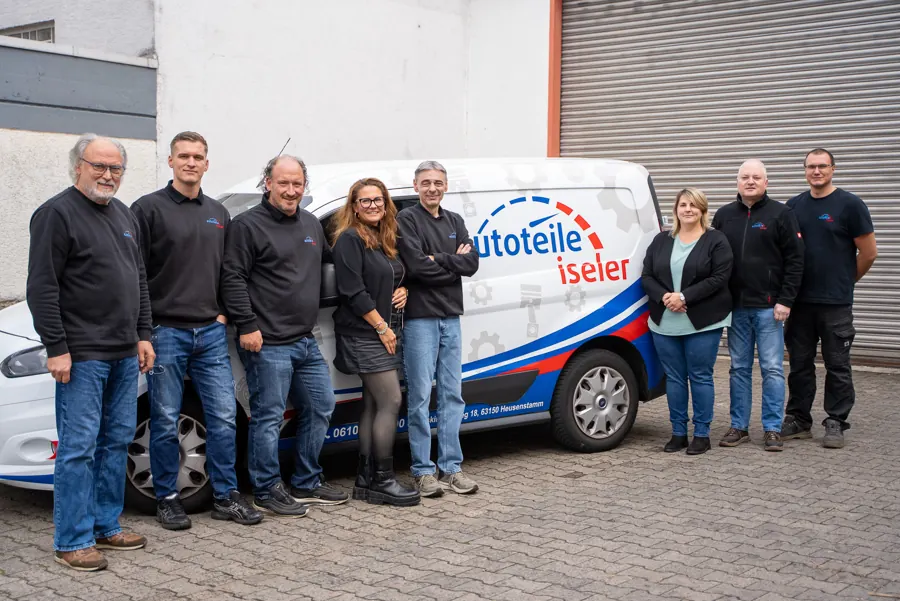
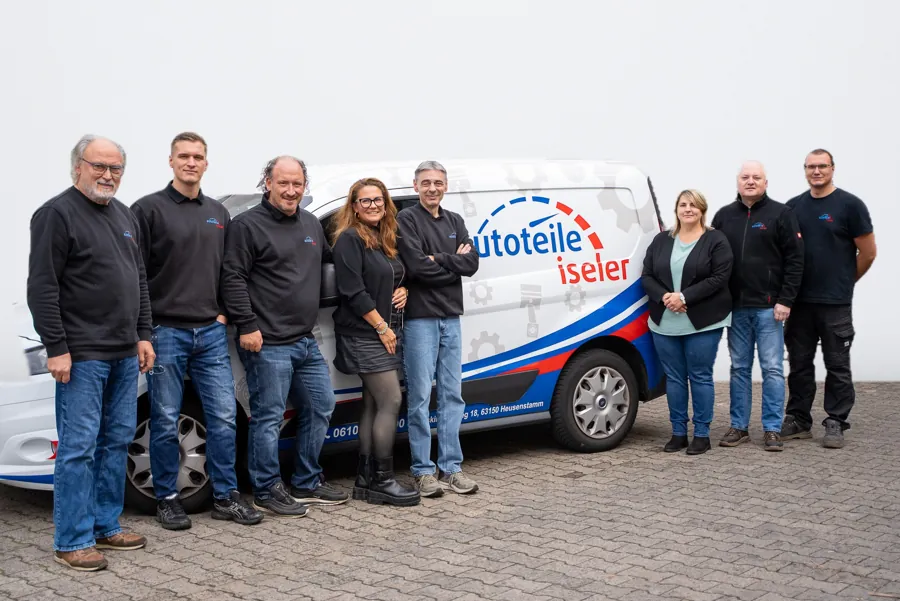
feat: Gruppenfoto mit sauberem Hintergrund, Platzhalter-Porträts für alle

diff --git a/index.html b/index.html
@@ -119,16 +119,16 @@ if(document.documentElement.dataset.theme==='light')document.querySelector('meta
 <section class="team" id="team">
   <h2 class="section-title">Unser Team</h2>
   <p class="team-lede">Von der Beratung über das Lager bis zur Buchhaltung: Bei uns kennen Sie die Menschen, die sich um Ihre Teile kümmern.</p>
-  <figure class="team-group"><img src="assets/img/team-gruppe.webp" srcset="assets/img/team-gruppe-900.webp 900w, assets/img/team-gruppe.webp 2048w" sizes="(max-width:1280px) 100vw, 1200px" alt="Das Team von Autoteile Iseler vor dem Lieferwagen" width="2048" height="1368" loading="lazy"></figure>
+  <figure class="team-group"><img src="assets/img/team-gruppe.webp?v=2" srcset="assets/img/team-gruppe-900.webp?v=2 900w, assets/img/team-gruppe.webp 2048w" sizes="(max-width:1280px) 100vw, 1200px" alt="Das Team von Autoteile Iseler vor dem Lieferwagen" width="2048" height="1368" loading="lazy"></figure>
   <ul class="tags">
-    <li class="tag" style="--tilt:-2deg"><div class="tag-photo" aria-hidden="true"><span>MI</span><svg aria-hidden="true" focusable="false" xmlns="http://www.w3.org/2000/svg" viewBox="0 0 256 256" fill="currentColor"><path d="M208,56H180.28L166.65,35.56A8,8,0,0,0,160,32H96a8,8,0,0,0-6.65,3.56L75.71,56H48A24,24,0,0,0,24,80V192a24,24,0,0,0,24,24H208a24,24,0,0,0,24-24V80A24,24,0,0,0,208,56Zm8,136a8,8,0,0,1-8,8H48a8,8,0,0,1-8-8V80a8,8,0,0,1,8-8H80a8,8,0,0,0,6.66-3.56L100.28,48h55.43l13.63,20.44A8,8,0,0,0,176,72h32a8,8,0,0,1,8,8ZM128,88a44,44,0,1,0,44,44A44.05,44.05,0,0,0,128,88Zm0,72a28,28,0,1,1,28-28A28,28,0,0,1,128,160Z"/></svg></div><h3>Michael Iseler</h3><p>Geschäftsführung</p></li>
-    <li class="tag" style="--tilt:1.5deg"><div class="tag-photo" aria-hidden="true"><span>AI</span><svg aria-hidden="true" focusable="false" xmlns="http://www.w3.org/2000/svg" viewBox="0 0 256 256" fill="currentColor"><path d="M208,56H180.28L166.65,35.56A8,8,0,0,0,160,32H96a8,8,0,0,0-6.65,3.56L75.71,56H48A24,24,0,0,0,24,80V192a24,24,0,0,0,24,24H208a24,24,0,0,0,24-24V80A24,24,0,0,0,208,56Zm8,136a8,8,0,0,1-8,8H48a8,8,0,0,1-8-8V80a8,8,0,0,1,8-8H80a8,8,0,0,0,6.66-3.56L100.28,48h55.43l13.63,20.44A8,8,0,0,0,176,72h32a8,8,0,0,1,8,8ZM128,88a44,44,0,1,0,44,44A44.05,44.05,0,0,0,128,88Zm0,72a28,28,0,1,1,28-28A28,28,0,0,1,128,160Z"/></svg></div><h3>Andre Iseler</h3><p>Geschäftsführung</p></li>
+    <li class="tag" style="--tilt:-2deg"><div class="tag-photo has-img"><img src="assets/img/team-michael.webp" alt="Michael Iseler" width="640" height="800" loading="lazy"></div><h3>Michael Iseler</h3><p>Geschäftsführung</p></li>
+    <li class="tag" style="--tilt:1.5deg"><div class="tag-photo has-img"><img src="assets/img/team-andre.webp" alt="Andre Iseler" width="640" height="800" loading="lazy"></div><h3>Andre Iseler</h3><p>Geschäftsführung</p></li>
     <li class="tag" style="--tilt:-1.5deg"><div class="tag-photo has-img"><img src="assets/img/team-leon.webp" alt="Leon Iseler" width="640" height="800" loading="lazy"></div><h3>Leon Iseler</h3><p>Stellv. Geschäftsführung</p></li>
-    <li class="tag" style="--tilt:1deg"><div class="tag-photo" aria-hidden="true"><span>SI</span><svg aria-hidden="true" focusable="false" xmlns="http://www.w3.org/2000/svg" viewBox="0 0 256 256" fill="currentColor"><path d="M208,56H180.28L166.65,35.56A8,8,0,0,0,160,32H96a8,8,0,0,0-6.65,3.56L75.71,56H48A24,24,0,0,0,24,80V192a24,24,0,0,0,24,24H208a24,24,0,0,0,24-24V80A24,24,0,0,0,208,56Zm8,136a8,8,0,0,1-8,8H48a8,8,0,0,1-8-8V80a8,8,0,0,1,8-8H80a8,8,0,0,0,6.66-3.56L100.28,48h55.43l13.63,20.44A8,8,0,0,0,176,72h32a8,8,0,0,1,8,8ZM128,88a44,44,0,1,0,44,44A44.05,44.05,0,0,0,128,88Zm0,72a28,28,0,1,1,28-28A28,28,0,0,1,128,160Z"/></svg></div><h3>Sandra Iseler</h3><p>Buchhaltung</p></li>
-    <li class="tag" style="--tilt:-1deg"><div class="tag-photo" aria-hidden="true"><span>MS</span><svg aria-hidden="true" focusable="false" xmlns="http://www.w3.org/2000/svg" viewBox="0 0 256 256" fill="currentColor"><path d="M208,56H180.28L166.65,35.56A8,8,0,0,0,160,32H96a8,8,0,0,0-6.65,3.56L75.71,56H48A24,24,0,0,0,24,80V192a24,24,0,0,0,24,24H208a24,24,0,0,0,24-24V80A24,24,0,0,0,208,56Zm8,136a8,8,0,0,1-8,8H48a8,8,0,0,1-8-8V80a8,8,0,0,1,8-8H80a8,8,0,0,0,6.66-3.56L100.28,48h55.43l13.63,20.44A8,8,0,0,0,176,72h32a8,8,0,0,1,8,8ZM128,88a44,44,0,1,0,44,44A44.05,44.05,0,0,0,128,88Zm0,72a28,28,0,1,1,28-28A28,28,0,0,1,128,160Z"/></svg></div><h3>Melanie Seidewitz</h3><p>Buchhaltung</p></li>
-    <li class="tag" style="--tilt:2deg"><div class="tag-photo" aria-hidden="true"><span>CM</span><svg aria-hidden="true" focusable="false" xmlns="http://www.w3.org/2000/svg" viewBox="0 0 256 256" fill="currentColor"><path d="M208,56H180.28L166.65,35.56A8,8,0,0,0,160,32H96a8,8,0,0,0-6.65,3.56L75.71,56H48A24,24,0,0,0,24,80V192a24,24,0,0,0,24,24H208a24,24,0,0,0,24-24V80A24,24,0,0,0,208,56Zm8,136a8,8,0,0,1-8,8H48a8,8,0,0,1-8-8V80a8,8,0,0,1,8-8H80a8,8,0,0,0,6.66-3.56L100.28,48h55.43l13.63,20.44A8,8,0,0,0,176,72h32a8,8,0,0,1,8,8ZM128,88a44,44,0,1,0,44,44A44.05,44.05,0,0,0,128,88Zm0,72a28,28,0,1,1,28-28A28,28,0,0,1,128,160Z"/></svg></div><h3>Claus Mühl</h3><p>Verkaufsberatung</p></li>
-    <li class="tag" style="--tilt:-1.5deg"><div class="tag-photo" aria-hidden="true"><span>FS</span><svg aria-hidden="true" focusable="false" xmlns="http://www.w3.org/2000/svg" viewBox="0 0 256 256" fill="currentColor"><path d="M208,56H180.28L166.65,35.56A8,8,0,0,0,160,32H96a8,8,0,0,0-6.65,3.56L75.71,56H48A24,24,0,0,0,24,80V192a24,24,0,0,0,24,24H208a24,24,0,0,0,24-24V80A24,24,0,0,0,208,56Zm8,136a8,8,0,0,1-8,8H48a8,8,0,0,1-8-8V80a8,8,0,0,1,8-8H80a8,8,0,0,0,6.66-3.56L100.28,48h55.43l13.63,20.44A8,8,0,0,0,176,72h32a8,8,0,0,1,8,8ZM128,88a44,44,0,1,0,44,44A44.05,44.05,0,0,0,128,88Zm0,72a28,28,0,1,1,28-28A28,28,0,0,1,128,160Z"/></svg></div><h3>Florian Schilling</h3><p>Lager und Logistik</p></li>
-    <li class="tag" style="--tilt:1.5deg"><div class="tag-photo" aria-hidden="true"><span>UK</span><svg aria-hidden="true" focusable="false" xmlns="http://www.w3.org/2000/svg" viewBox="0 0 256 256" fill="currentColor"><path d="M208,56H180.28L166.65,35.56A8,8,0,0,0,160,32H96a8,8,0,0,0-6.65,3.56L75.71,56H48A24,24,0,0,0,24,80V192a24,24,0,0,0,24,24H208a24,24,0,0,0,24-24V80A24,24,0,0,0,208,56Zm8,136a8,8,0,0,1-8,8H48a8,8,0,0,1-8-8V80a8,8,0,0,1,8-8H80a8,8,0,0,0,6.66-3.56L100.28,48h55.43l13.63,20.44A8,8,0,0,0,176,72h32a8,8,0,0,1,8,8ZM128,88a44,44,0,1,0,44,44A44.05,44.05,0,0,0,128,88Zm0,72a28,28,0,1,1,28-28A28,28,0,0,1,128,160Z"/></svg></div><h3>Uwe Kaiser</h3><p>Lager und Logistik</p></li>
+    <li class="tag" style="--tilt:1deg"><div class="tag-photo has-img"><img src="assets/img/team-sandra.webp" alt="Sandra Iseler" width="640" height="800" loading="lazy"></div><h3>Sandra Iseler</h3><p>Buchhaltung</p></li>
+    <li class="tag" style="--tilt:-1deg"><div class="tag-photo has-img"><img src="assets/img/team-melanie.webp" alt="Melanie Seidewitz" width="640" height="800" loading="lazy"></div><h3>Melanie Seidewitz</h3><p>Buchhaltung</p></li>
+    <li class="tag" style="--tilt:2deg"><div class="tag-photo has-img"><img src="assets/img/team-claus.webp" alt="Claus Mühl" width="640" height="800" loading="lazy"></div><h3>Claus Mühl</h3><p>Verkaufsberatung</p></li>
+    <li class="tag" style="--tilt:-1.5deg"><div class="tag-photo has-img"><img src="assets/img/team-florian.webp" alt="Florian Schilling" width="640" height="800" loading="lazy"></div><h3>Florian Schilling</h3><p>Lager und Logistik</p></li>
+    <li class="tag" style="--tilt:1.5deg"><div class="tag-photo has-img"><img src="assets/img/team-uwe.webp" alt="Uwe Kaiser" width="640" height="800" loading="lazy"></div><h3>Uwe Kaiser</h3><p>Lager und Logistik</p></li>
   </ul>
 </section>
 
